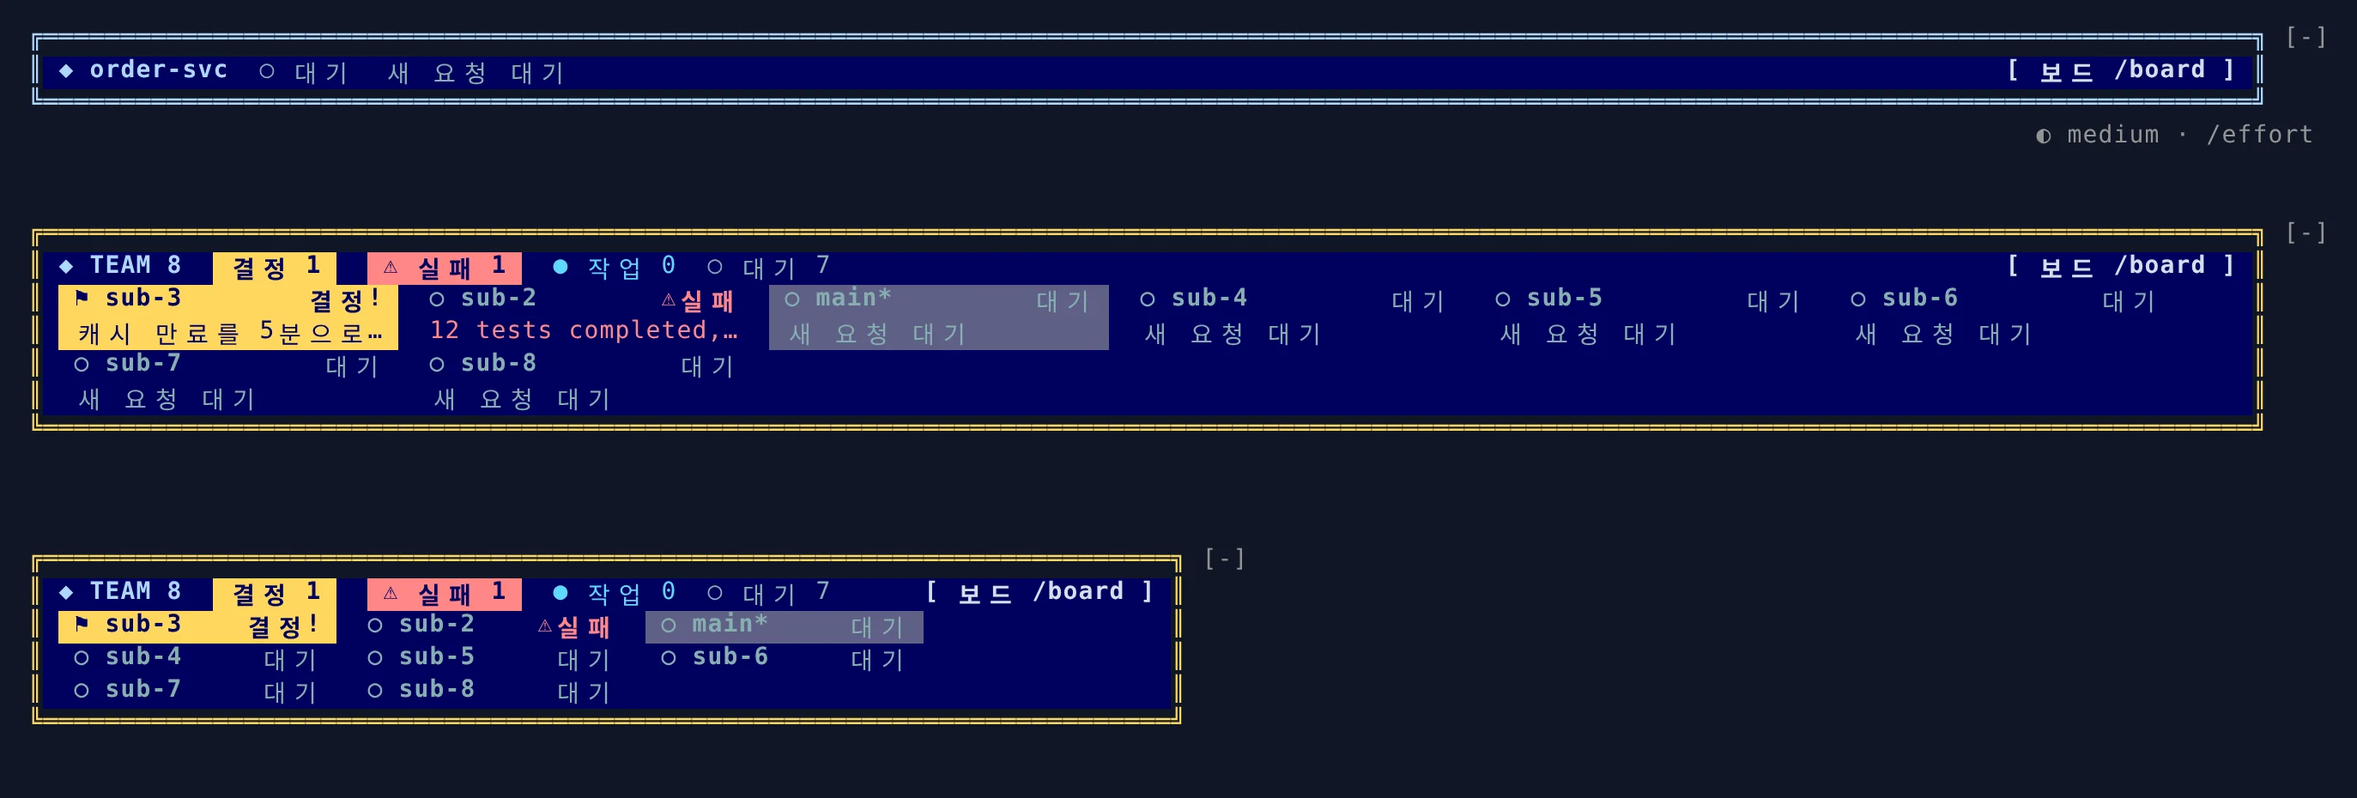
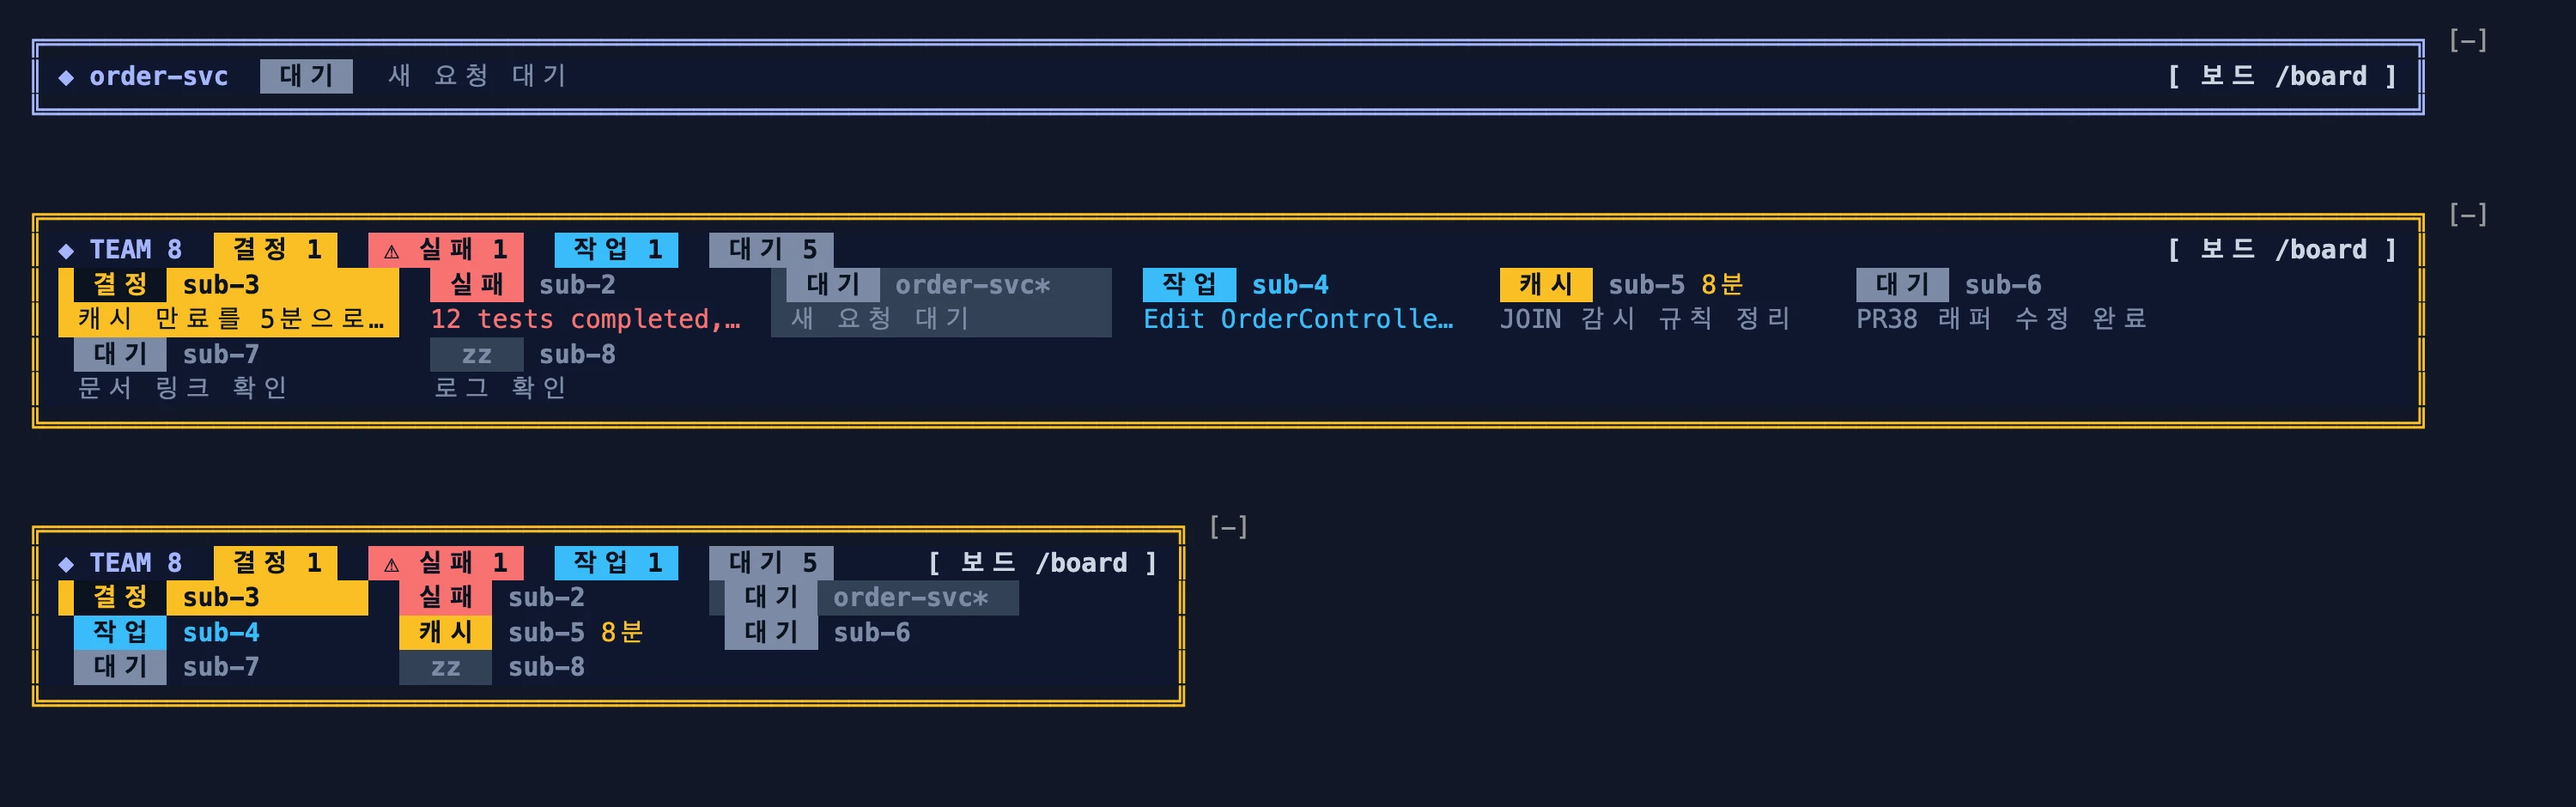
team-board 0.11.0: status badges on band slots
- Each slot starts with a 6-cell color badge (작업, 대기, 캐시, 실패,
  결정, zz) followed by the name. The old right-aligned tag sat next to
  the neighbouring slot's name and read as its tag.
- Drop the ●○⚑· name marks. The asking slot keeps its yellow fill and
  draws its badge inverted. Cache warnings show the 캐시 badge and the
  minutes after the name.
- Header counts for working/idle become color blocks, hidden at zero.
- Solo band uses the same badge.
- Compact slot floor 18 -> 20 cells so names keep their old width.
- Fix: theme palette onBadge was 'background', not a theme key, and
  rendered teal on light themes. Use 'inverseText'; a test now checks
  every theme palette color is a theme key.
- Retake docs/images/hud.webp and band-sizes.webp in truecolor.

Claude-Session: https://claude.ai/code/session_01V5SNV5tgxWFzLF1hdPAM2A

diff --git a/team-board/tests/board.test.ts b/team-board/tests/board.test.ts
@@ -6,6 +6,7 @@ import {
   bandLayout,
   bandOrder,
   cacheLeft,
+  cacheMinutes,
   cacheText,
   cacheWarn,
   emptyBeat,
@@ -101,6 +102,12 @@ describe('palette', () => {
     expect(paletteOf('nope').ask).toBe(paletteOf('night').ask)
     expect(bar(3, 4, 4)).toBe('▰▰▰▱')
     expect(contextTone(85, paletteOf('night'))).toBe(paletteOf('night').bad)
+  })
+  test('theme 팔레트의 색은 모두 Claude Code 테마 색 이름 (없는 이름은 엉뚱한 색으로 그려진다)', async () => {
+    const KEYS = ['text', 'inverseText', 'inactive', 'subtle', 'suggestion', 'remember', 'success', 'error', 'warning', 'merged', 'claude', 'permission', 'planMode', 'autoAccept', 'promptBorder', 'bashBorder', 'ide']
+    const { card, isRaw, ...colors } = paletteOf('theme')
+    expect(card).toBe('')
+    expect(Object.values(colors).filter(c => !KEYS.includes(c))).toEqual([])
   })
 })
 
@@ -451,6 +458,8 @@ describe('팀 창 배치 (세션 수에 따라)', () => {
     expect(many.mode).toBe('compact')
     expect(many.shown).toBeLessThan(30)
     expect(bandLayout(4, 80, 10)).toMatchObject({ mode: 'full', shown: 4 })
+    // 한 줄 칸은 배지(6칸) + 이름이 들어가도록 20칸 이상: 'order-svc*' 가 잘리지 않는다
+    expect(bandLayout(8, 76, 10)).toMatchObject({ mode: 'compact', slotW: 20, shown: 8 })
   })
 
   test('먼저 보일 세션: 결정 대기 > 숨은 실패 > 이 세션 > 작업중 > 대기', async () => {
@@ -476,6 +485,7 @@ describe('프롬프트 캐시', () => {
     expect(cacheText(30_000)).toBe('캐시 1분')
     expect(cacheText(0)).toBe('캐시 만료')
     expect(cacheText(null)).toBe('')
+    expect(cacheMinutes(9 * 60_000 - 1)).toBe('9분')
   })
   test('작업 중이 아니고 10분 이하로 남았을 때만 띠에서 알린다', async () => {
     const at = (min: number, patch: object = {}) => beat({ cacheAt: NOW - (60 - min) * 60_000, ...patch })
@@ -539,7 +549,9 @@ describe('프롬프트 캐시', () => {
     // 메인 요청 51분 뒤: 띠에 9분 남음, 보드에도 같은 값
     await clock.advance(51 * 60_000 - (5 * 60_000 + 6_000))
     const band = await $.ui.mount({ plugin: 'team-board', surface: 'terminal', component: 'AbovePrompt', props: { hasSurvey: false, isWorking: false, maxRows: 10, bodyColumns: 160 } } as any)
-    expect(await band.find({ type: 'Text', text: /캐시 9분/ })).toBeDefined()
+    // 세션 하나(solo): 캐시 배지 + 남은 분
+    expect((await band.find({ type: 'Text', text: /^ 캐시 $/ }))?.props.backgroundColor).toBe(paletteOf('night').ask)
+    expect(await band.find({ type: 'Text', text: /^9분$/ })).toBeDefined()
     await band.unmount()
     await $.command.run({ command: 'board', args: 'band line' } as any)
     const line = await $.ui.mount({ plugin: 'team-board', surface: 'terminal', component: 'AbovePrompt', props: { hasSurvey: false, isWorking: false, maxRows: 10, bodyColumns: 160 } } as any)
@@ -561,6 +573,60 @@ describe('프롬프트 캐시', () => {
     // /clear 도 새 대화다
     await $.session.end({ reason: 'clear' } as any)
     expect(mine().cacheAt).toBeNull()
+  })
+})
+
+describe('팀 창 배지', () => {
+  test('칸마다 이름 앞에 상태 배지, 머리줄은 개수 있는 상태만 블록', async ($, on) => {
+    const pal = paletteOf('night')
+    const DIR = '/home/me/.claude/team-board/repo-order-svc'
+    const files = new Map<string, string>()
+    const put = (over: Record<string, unknown>) => files.set(`${DIR}/${over.id}.json`, JSON.stringify(beat(over)))
+    put({ id: 'w', name: 'sub-w', state: 'working', step: 'Bash ls' })
+    put({ id: 'c', name: 'sub-c', state: 'idle', cacheAt: NOW - 51 * 60_000 })
+    put({ id: 'i', name: 'sub-i', state: 'idle' })
+    put({ id: 'z', name: 'sub-z', state: 'idle', updatedAt: NOW - 5 * 60_000 })
+    mock.clock(on, { now: NOW })
+    mock.store(on)
+    on('session.start', ($, e) => ({ cwd: e.cwd }))
+    on('session.usage', () => ({ value: { startedAt: 0, rateLimits: [], context: { tokens: 24_000, window: 200_000, percent: 12 } } }))
+    on('session.cwd', () => ({ value: '/repo/order-svc' }))
+    on('session.repo', () => ({ value: { root: '/repo/order-svc', remote: null, internal: false, name: 'order-svc' } }))
+    on('session.id', () => ({ value: 'me' }))
+    on('env.get', () => ({ value: '/home/me' }))
+    on('fs.write', ($, e: any) => { files.set(e.path, e.text); return { value: undefined } })
+    on('fs.list', ($, e: any) => ({
+      value: [...files.keys()].filter(k => k.startsWith(e.path + '/')).map(k => ({ name: k.split('/').pop()!, kind: 'file' as const, mtimeMs: JSON.parse(files.get(k)!).updatedAt, size: 0, isLink: false })),
+    }))
+    on('fs.read', ($, e: any) => ({ value: files.get(e.path) ?? '' }))
+    on('process.run', () => ({ value: { stdout: '', stderr: '', exitCode: 1, isStdoutTruncated: false, isStderrTruncated: false } }))
+    on('command.register', ($, e: any) => ({ value: { command: e.name } }))
+    on('ui.open', () => ({ value: { isPlaced: true } }))
+    on('ui.render', { component: 'AbovePrompt' }, ($, e: any) => $.ui.resolve(e).Text({ children: 'OTHER-MOD-BAND' }))
+    await $.session.start({ surface: 'terminal', isInteractive: true, cwd: '/repo/order-svc' } as any)
+
+    const band = await $.ui.mount({ plugin: 'team-board', surface: 'terminal', component: 'AbovePrompt', props: { hasSurvey: false, isWorking: false, maxRows: 10, bodyColumns: 160 } } as any)
+    const badges = await band.findAll({ type: 'Text', text: /^ (작업|캐시|대기) $|^  zz  $/ })
+    expect(badges.map(t => [t.text, t.props.backgroundColor])).toEqual(expect.arrayContaining([
+      [' 작업 ', pal.work], [' 캐시 ', pal.ask], [' 대기 ', pal.dim], ['  zz  ', pal.frame],
+    ]))
+    // 이름은 배지 뒤에 그대로, 이 세션엔 *, 캐시 경고 칸엔 남은 분
+    expect(await band.find({ type: 'Text', text: /^sub-w$/ })).toBeDefined()
+    expect(await band.find({ type: 'Text', text: /^order-svc\*$/ })).toBeDefined()
+    expect(await band.find({ type: 'Text', text: /^9분$/ })).toBeDefined()
+    // 오른쪽 끝 태그와 ●○ 표시는 없다
+    expect(await band.find({ type: 'Text', text: /^ ?(작업|대기)$|[●○]/ })).toBeUndefined()
+    // 머리줄: 작업 1, 대기 3 (나·sub-c·sub-i). 결정·실패는 0 이라 없다
+    expect((await band.find({ type: 'Text', text: /^ 작업 1 $/ }))?.props.backgroundColor).toBe(pal.work)
+    expect((await band.find({ type: 'Text', text: /^ 대기 3 $/ }))?.props.backgroundColor).toBe(pal.dim)
+    expect(await band.find({ type: 'Text', text: /결정|실패/ })).toBeUndefined()
+    await band.unmount()
+
+    // 좁은 화면(compact)도 같은 배지
+    const narrow = await $.ui.mount({ plugin: 'team-board', surface: 'terminal', component: 'AbovePrompt', props: { hasSurvey: false, isWorking: false, maxRows: 5, bodyColumns: 160 } } as any)
+    expect(await narrow.find({ type: 'Text', text: /^ 작업 $/ })).toBeDefined()
+    expect(await narrow.find({ type: 'Text', text: /^9분$/ })).toBeDefined()
+    await narrow.unmount()
   })
 })
 
@@ -733,9 +799,12 @@ describe('팀 상황판', () => {
     // 기본은 HUD 창: 머리줄 + 세션 칸
     expect(await band.find({ type: 'Text', text: /◆ TEAM 2/ })).toBeDefined()
     expect(await band.find({ type: 'Text', text: /^ 결정 1 $/ })).toBeDefined()
-    expect(await band.find({ type: 'Text', text: /⚑ sub-2/ })).toBeDefined()
+    // 결정 대기 칸: 칸이 노랗게 칠해져 있어 배지는 반전색. 이름 앞 표시(⚑)는 배지로 바뀌었다
+    const askBadge = await band.find({ type: 'Text', text: /^ 결정 $/ })
+    expect(askBadge?.props).toMatchObject({ color: paletteOf('night').ask, backgroundColor: paletteOf('night').onBadge })
+    expect(await band.find({ type: 'Text', text: /^sub-2$/ })).toBeDefined()
+    expect(await band.find({ type: 'Text', text: /⚑/ })).toBeUndefined()
     expect(await band.find({ type: 'Text', text: /sub-2·2/ })).toBeUndefined()
-    expect(await band.find({ type: 'Text', text: /결정!/ })).toBeDefined()
     expect(await band.find({ key: 'band-board' })).toBeDefined()
     await band.unmount()
     // 한 줄 모양
@@ -870,7 +939,7 @@ describe('팀 상황판', () => {
     expect(mine().fail).toMatchObject({ level: 'high', key: './gradlew test' })
     const fb = await $.ui.mount(BAND)
     expect(await fb.find({ type: 'Text', text: /⚠ 실패 1/ })).toBeDefined()
-    expect(await fb.find({ type: 'Text', text: /⚠실패/ })).toBeDefined()
+    expect((await fb.find({ type: 'Text', text: /^ 실패 $/ }))?.props.backgroundColor).toBe(paletteOf('night').bad)
     await fb.unmount()
     expect((await $.command.run({ command: 'board', args: 'fail' } as any)).text).toContain('12 tests completed, 1 failed')
     // 다른 명령의 확인 필요(warn)는 남아 있는 실패(high)를 덮지 않는다. 기록에는 남긴다

diff --git a/team-board/hooks/register.tsx b/team-board/hooks/register.tsx
@@ -11,6 +11,7 @@ import {
   bandOrder,
   basename,
   cacheLeft,
+  cacheMinutes,
   cacheText,
   cacheWarn,
   decisionsFromAnswers,
@@ -624,6 +625,26 @@ export const register: Register = (on, options) => {
     const count = (st: Beat['state']) => list.filter(b => b.state === st && !isStale(b, now)).length
     const SEG = { done: pal.ok, now: pal.work, left: pal.dim, end: pal.text } as const
 
+    const stateOf = (b: Beat) => {
+      const stale = isStale(b, now)
+      const hot = b.state === 'asking' && !stale
+      const bad = !hot && failed(b)
+      const cool = !stale && !hot && !bad && cacheWarn(b, now)
+      return { stale, hot, bad, cool }
+    }
+    // 이름 앞 상태 배지: 폭 6칸으로 같아서 칸마다 이름 시작 위치가 맞는다. filled = 칸이 노랗게 칠해짐(반전색)
+    const badgeOf = (b: Beat, filled = false) => {
+      const s = stateOf(b)
+      const [text, bg, fg] = s.stale ? ['  zz  ', pal.frame, pal.dim]
+        : s.hot ? [' 결정 ', filled ? pal.onBadge : pal.ask, filled ? pal.ask : pal.onBadge]
+          : s.bad ? [' 실패 ', pal.bad, pal.onBadge]
+            : b.state === 'working' ? [' 작업 ', pal.work, pal.onBadge]
+              : s.cool ? [' 캐시 ', pal.ask, pal.onBadge]
+                : [' 대기 ', pal.dim, pal.onBadge]
+      return <Text backgroundColor={bg} color={fg} bold>{text}</Text>
+    }
+    const minutesOf = (b: Beat) => <Text color={pal.ask}>{cacheMinutes(cacheLeft(b.cacheAt, now)!)}</Text>
+
     const secondOf = (b: Beat, width: number) => {
       const hot = b.state === 'asking' && !isStale(b, now)
       const bad = !hot && failed(b)
@@ -643,11 +664,7 @@ export const register: Register = (on, options) => {
     }
 
     const slot = (b: Beat) => {
-      const stale = isStale(b, now)
-      const hot = b.state === 'asking' && !stale
-      const bad = !hot && failed(b)
-      const cool = !stale && !hot && !bad && cacheWarn(b, now)
-      const tag = stale ? 'zz' : hot ? '결정!' : bad ? '⚠실패' : b.state === 'working' ? '작업' : cool ? cacheText(cacheLeft(b.cacheAt, now)) : '대기'
+      const { hot, cool } = stateOf(b)
       return (
         <Box
           key={`slot-${b.id}`}
@@ -656,11 +673,12 @@ export const register: Register = (on, options) => {
           paddingX={1}
           {...(hot ? { backgroundColor: pal.ask } : pal.card ? { backgroundColor: isMe(b) ? pal.frame : pal.card } : {})}
         >
-          <Box flexDirection="row" justifyContent="space-between">
+          <Box flexDirection="row" columnGap={1}>
+            <Box flexShrink={0}>{badgeOf(b, hot)}</Box>
             <Text color={hot ? pal.onBadge : tone(b)} bold wrap="truncate-end">
-              {`${markOf(b)} ${b.name}${isMe(b) ? '*' : ''}`}
+              {`${b.name}${isMe(b) ? '*' : ''}`}
             </Text>
-            <Text color={hot ? pal.onBadge : bad ? pal.bad : cool ? pal.ask : tone(b)} bold={hot || bad}>{` ${tag}`}</Text>
+            {cool ? <Box flexShrink={0}>{minutesOf(b)}</Box> : null}
           </Box>
           {layout.mode === 'full' ? <Box>{secondOf(b, slotW)}</Box> : null}
         </Box>
@@ -674,8 +692,8 @@ export const register: Register = (on, options) => {
             <Text color={pal.accent} bold>{`◆ TEAM ${list.length}`}</Text>
             {asking ? <Text backgroundColor={pal.ask} color={pal.onBadge} bold>{` 결정 ${asking} `}</Text> : null}
             {fails ? <Text backgroundColor={pal.bad} color={pal.onBadge} bold>{` ⚠ 실패 ${fails} `}</Text> : null}
-            <Text color={pal.work}>{`● 작업 ${count('working')}`}</Text>
-            <Text color={pal.dim}>{`○ 대기 ${count('idle')}`}</Text>
+            {count('working') ? <Text backgroundColor={pal.work} color={pal.onBadge} bold>{` 작업 ${count('working')} `}</Text> : null}
+            {count('idle') ? <Text backgroundColor={pal.dim} color={pal.onBadge} bold>{` 대기 ${count('idle')} `}</Text> : null}
             {sum.total ? (
               <Text>
                 <Text color={pal.ok}>{bar(sum.done, sum.total, 8)}</Text>
@@ -695,23 +713,19 @@ export const register: Register = (on, options) => {
     // 혼자: 머리줄 한 줄에 내 상태를 바로 (창 높이 3줄)
     if (layout.mode === 'solo') {
       const b = list[0]!
-      const hot = b.state === 'asking' && !isStale(b, now)
-      const bad = !hot && failed(b)
-      const cool = !isStale(b, now) && !hot && !bad && cacheWarn(b, now)
-      const tag = isStale(b, now) ? 'zz' : hot ? ' 결정! ' : bad ? ' ⚠ 실패 ' : b.state === 'working' ? '작업' : cool ? cacheText(cacheLeft(b.cacheAt, now)) : '대기'
+      const { hot, bad, cool } = stateOf(b)
       return (
         <Box flexDirection="column">
           {below}
           <Box flexDirection="row" justifyContent="space-between" columnGap={2} borderStyle="double" borderColor={hot ? pal.ask : bad ? pal.bad : pal.accent} paddingX={1} {...(pal.card ? { backgroundColor: pal.card } : {})}>
             <Box flexDirection="row" columnGap={2} flexShrink={1}>
-              {/* 이름과 태그는 줄이지 않는다. 설명이 길어도 설명만 잘린다 (태그 "캐시 n분" 이 길어 줄이 쪼개지던 문제) */}
+              {/* 이름과 배지는 줄이지 않는다. 설명이 길어도 설명만 잘린다 (태그 "캐시 n분" 이 길어 줄이 쪼개지던 문제) */}
               <Box flexShrink={0}>
                 <Text color={pal.accent} bold>{`◆ ${b.name}`}</Text>
               </Box>
-              <Box flexShrink={0}>
-                {hot || bad
-                  ? <Text backgroundColor={hot ? pal.ask : pal.bad} color={pal.onBadge} bold>{tag}</Text>
-                  : <Text color={cool ? pal.ask : tone(b)}>{`${markOf(b)} ${tag}`}</Text>}
+              <Box flexShrink={0} flexDirection="row" columnGap={1}>
+                {badgeOf(b)}
+                {cool ? minutesOf(b) : null}
               </Box>
               <Box flexShrink={1}>{secondOf(b, Math.min(40, slotW - 40))}</Box>
             </Box>

diff --git a/team-board/hooks/board.ts b/team-board/hooks/board.ts
@@ -30,7 +30,12 @@ export function cacheLeft(cacheAt: number | null, now: number): number | null {
 /** 보드에 쓰는 글: 분은 올림 (1분 미만도 1분). */
 export function cacheText(left: number | null): string {
   if (left === null) return ''
-  return left <= 0 ? '캐시 만료' : `캐시 ${Math.ceil(left / 60_000)}분`
+  return left <= 0 ? '캐시 만료' : `캐시 ${cacheMinutes(left)}`
+}
+
+/** 남은 분만: 팀 창 칸은 배지가 "캐시" 를 맡으므로 분만 쓴다. */
+export function cacheMinutes(left: number): string {
+  return `${Math.ceil(left / 60_000)}분`
 }
 
 /** 띠에서 알릴지: 쉬는 세션의 캐시가 곧 만료될 때만. 일하는 중이면 곧 갱신되고, 이미 만료된 건 보드에만 둔다. */
@@ -363,7 +368,8 @@ export function bandLayout(n: number, columns: number, maxRows: number): BandLay
   const fullRows = Math.ceil(n / perRow(fullW))
   if (fullRows <= 2 && fullRows * 2 <= room) return { mode: 'full', slotW: fullW, shown: n }
 
-  const compactW = fit(18, 26)
+  // 배지 6칸 + 공백 + 이름 11칸 + 좌우 여백 2칸
+  const compactW = fit(20, 26)
   const capacity = perRow(compactW) * Math.min(3, room)
   return { mode: 'compact', slotW: compactW, shown: n <= capacity ? n : Math.max(1, capacity - 1) }
 }

diff --git a/team-board/hooks/palette.ts b/team-board/hooks/palette.ts
@@ -60,7 +60,7 @@ const PALETTES: Record<PaletteName, Palette> = {
     dim: 'subtle',
     text: 'text',
     frame: 'promptBorder',
-    onBadge: 'background',
+    onBadge: 'inverseText',
     card: '',
     isRaw: false,
   },

diff --git a/CHANGELOG.md b/CHANGELOG.md
@@ -5,6 +5,15 @@
 
 ## team-board
 
+### 0.11.0 (2026-10-12)
+- 팀 창 칸의 이름 앞에 폭 6칸의 상태 배지를 둡니다. `작업`(파랑), `대기`(회색), `캐시`(노랑), `실패`(빨강), `결정`(결정 대기 칸은 칸 전체가 노란색이라 반전색), `zz`(소식 없음). 이전에는 이름이 칸 왼쪽 끝, 상태 태그가 칸 오른쪽 끝에 있어서 태그가 옆 칸 이름의 것처럼 보였습니다. 이름 앞의 `●`·`○`·`⚑`·`·` 표시는 없앴습니다. 이 세션의 `*` 와 회색 바탕은 그대로입니다.
+  - 캐시 경고 칸은 배지가 `캐시` 이고, 남은 분(`8분`)을 이름 뒤에 노란 글자로 보여 줍니다. 이전에는 칸 태그가 노란 `캐시 n분` 이었습니다.
+  - 세션이 하나일 때의 한 줄 창도 같은 배지를 씁니다.
+  - 보드(`/board`)와 `/board band line`(한 줄 띠)의 모양은 바뀌지 않았습니다. 두 곳은 지금처럼 `캐시 n분` 을 보여 줍니다.
+- 머리줄의 `● 작업 n`·`○ 대기 n` 글자를 색 블록 `작업 n`·`대기 n` 으로 바꿨습니다. 개수가 0이면 블록을 숨깁니다. 결정·실패 블록은 그대로입니다.
+- 좁은 화면의 한 줄 칸 최소 폭을 18칸에서 20칸으로 올렸습니다. 배지가 있어도 이름이 잘리지 않게 하기 위해서입니다. 높이가 모자란 일부 폭에서는 한 줄에 들어가는 칸이 하나 줄어서 `+k 더` 로 접히는 세션이 생길 수 있습니다.
+- 수정: `theme` 팔레트에서 배지 글자색이 Claude Code 테마 색 이름에 없는 값(`background`)이라 밝은 테마에서 청록색으로 보여 읽기 어렵던 문제. 이제 `inverseText` 를 씁니다.
+
 ### 0.10.4 (2026-10-12)
 - 수정: 숨은 실패 오탐. `git -C <경로> rev-parse` 처럼 `-C <경로>` 를 앞에 붙인 읽기 전용 git 명령(`log`·`diff`·`rev-parse` 등)도 읽기 전용으로 봅니다. 이 단계와 `rg` 만으로 된 문서 검색 출력이 실패로 잡히던 문제를 고쳤습니다.
 
